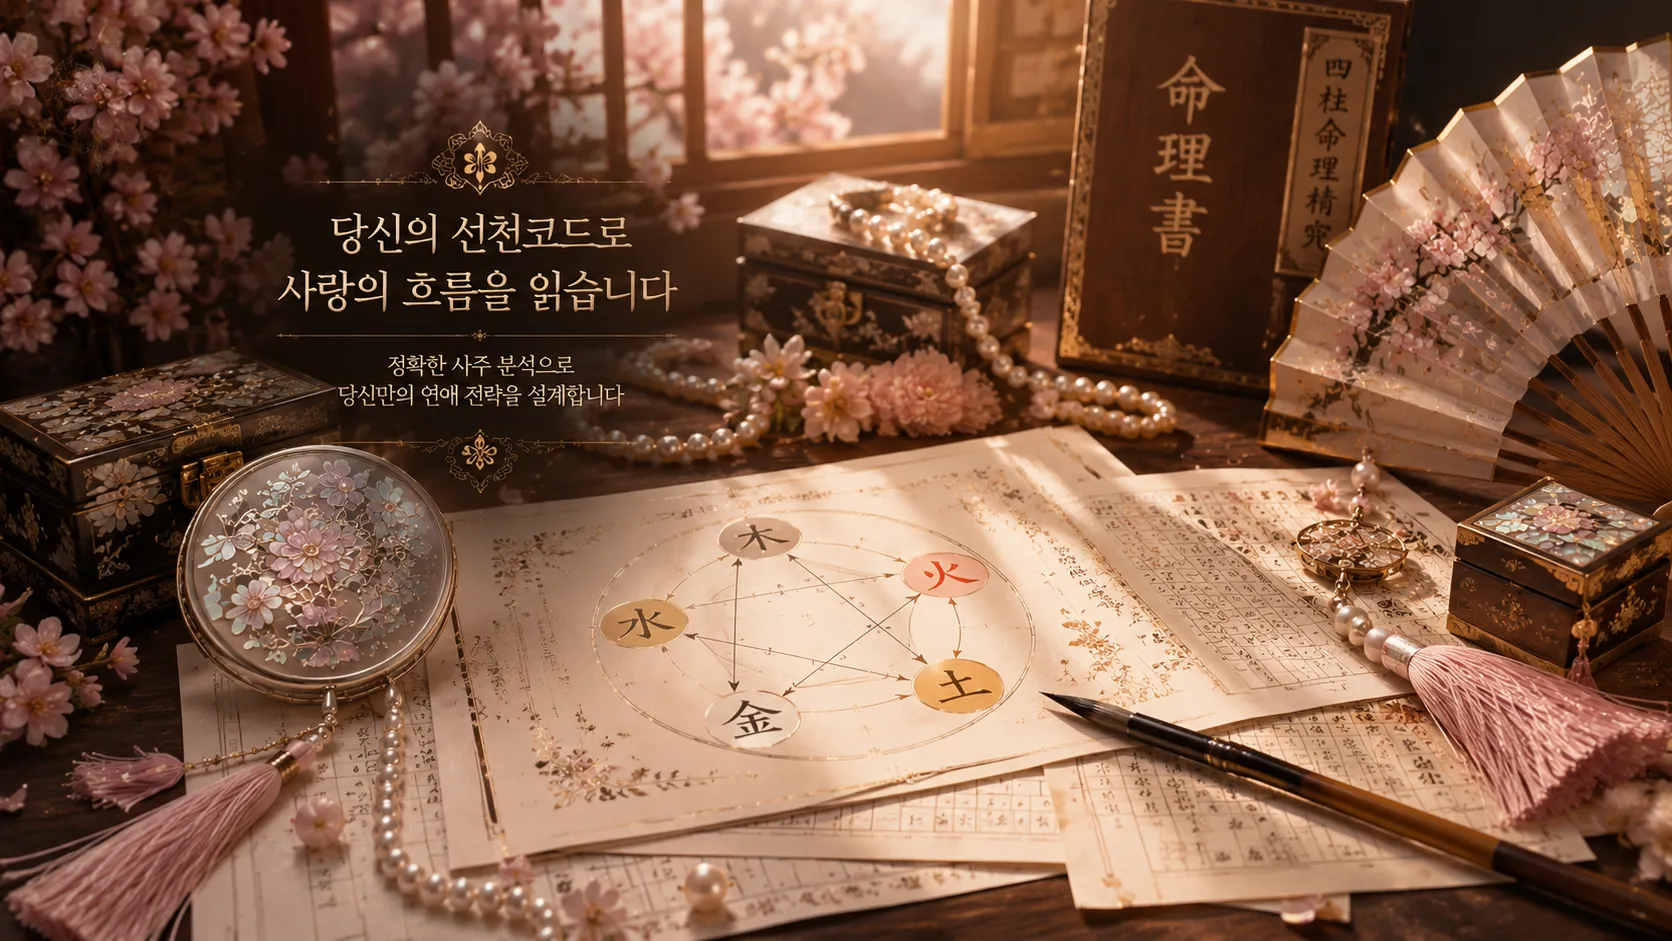
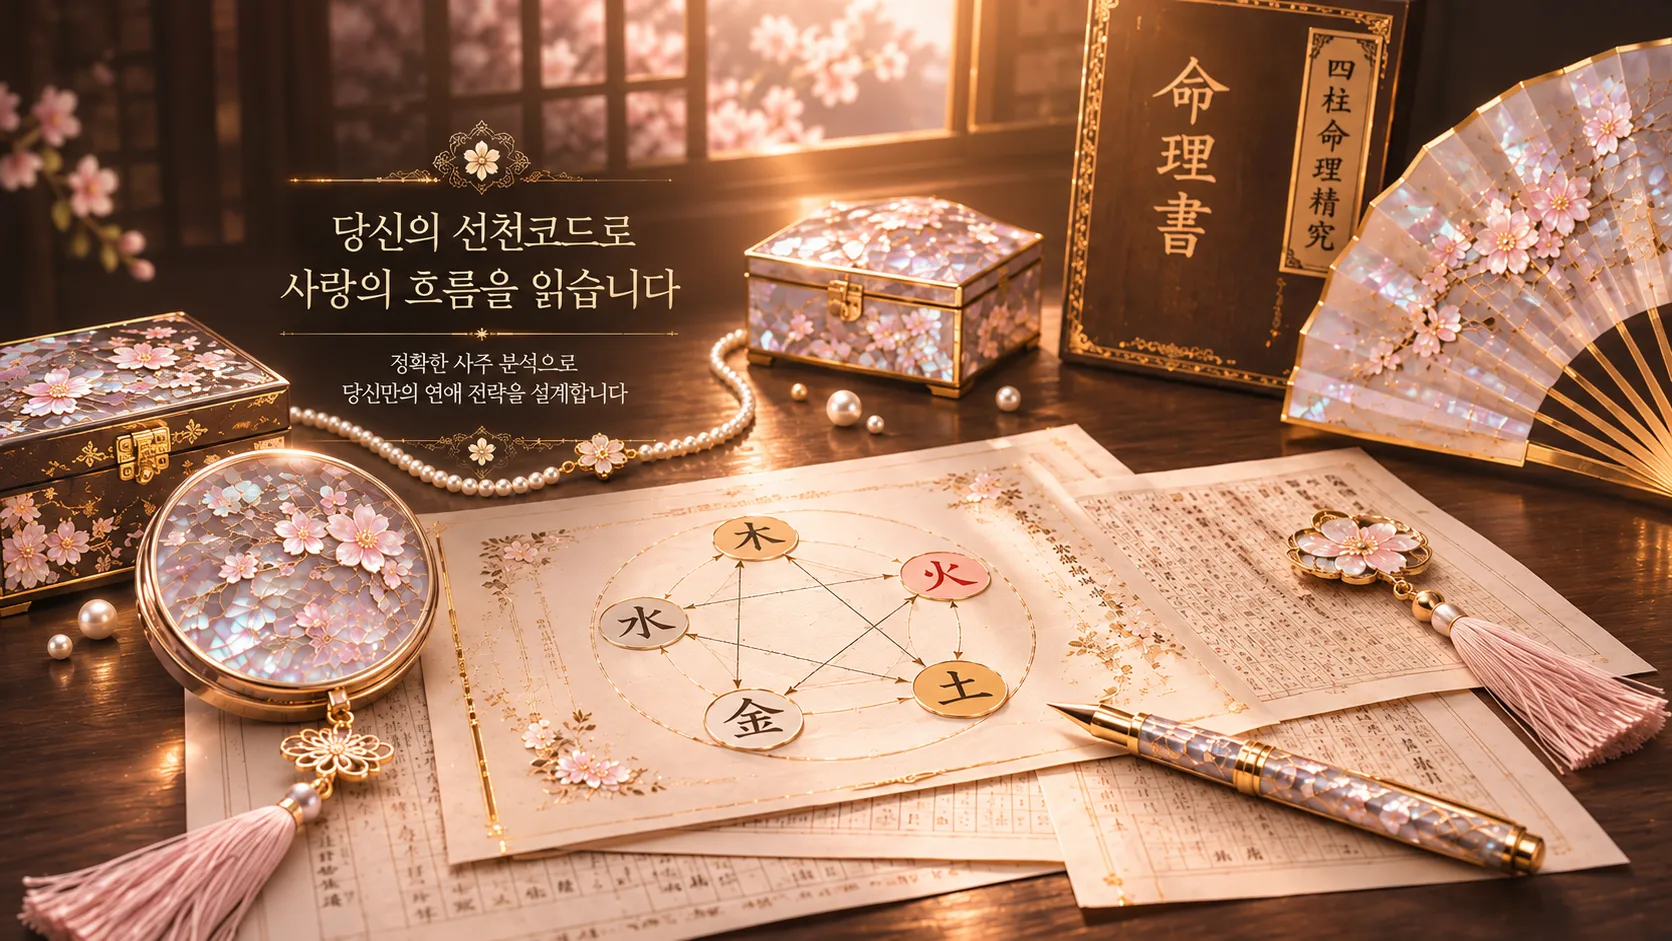
feat: 연애리포트 주도권 회복 배너 추가 및 섹션별 대표 비주얼 이미지 전면 교체

diff --git a/app/reports/baekdohwa-report/page.tsx b/app/reports/baekdohwa-report/page.tsx
@@ -308,8 +308,8 @@ export default function BaekdohwaReportPage() {
                       <div className="lg:col-span-5 w-full flex justify-center">
                         <div className="relative w-full max-w-[420px] aspect-[4/3] rounded-2xl md:rounded-3xl overflow-hidden border border-white/10 shadow-2xl bg-black/30 group">
                           <Image
-                            src="/image/lovereport/p5.webp"
-                            alt="선천코드 연애 리포트 프리미엄 패키지"
+                            src="/image/lovereport/the%20secret%20love%20map.webp"
+                            alt="선천코드로 읽는 나의 사랑 설계도"
                             fill
                             className="object-cover object-center group-hover:scale-105 transition-transform duration-700"
                             sizes="(max-width: 1024px) 100vw, 420px"
@@ -632,23 +632,36 @@ export default function BaekdohwaReportPage() {
                         내 코드가 정렬되는 순간, 남자가 먼저 알아서 스며들고 헌신하는 <span className="text-[#E6BFA9] font-semibold">&lsquo;선택받는 판&rsquo;</span>이 만들어지기 때문입니다.
                       </p>
                     </div>
+                  </div>
+                </div>
 
-                    {/* 전환 강조 박스 */}
-                    <div 
-                      className="p-6 md:p-8 rounded-2xl border text-center space-y-2 backdrop-blur-sm"
-                      style={{
-                        background: 'rgba(125, 76, 100, 0.20)',
-                        borderColor: 'rgba(215, 170, 185, 0.20)',
-                      }}
-                    >
-                      <p className="text-sm md:text-base text-[#E6BFA9] font-bold tracking-wide">
-                        이제 감정에 휘둘리며 닳아버리는 연애는 끝내세요.
-                      </p>
-                      <p className="font-elegant font-medium text-[17px] md:text-[19px] text-white leading-relaxed break-keep">
-                        당신의 연애 판도를 완전히 뒤바꿀 단 하나의 설계도,<br className="hidden sm:inline" />
-                        <span className="text-[#E6BFA9] font-semibold">백도화 《연애비급》 선천코드 리포트가 당신의 진짜 매력을 깨워드립니다.</span>
-                      </p>
-                    </div>
+                {/* 주도권 회복 16:9 풀사이즈 배너 이미지 (최대 1280px) */}
+                <div className="mx-auto mt-10 mb-12 w-full max-w-[1280px]">
+                  <Image
+                    src="/image/lovereport/the%20power%20of%20my%20love%20code.webp"
+                    alt="선천코드의 매력을 이해하고 연애의 주도권을 되찾는 백도화 이미지"
+                    width={1280}
+                    height={720}
+                    className="block h-auto w-full rounded-2xl border border-white/10 shadow-2xl"
+                  />
+                </div>
+
+                {/* 전환 강조 박스 */}
+                <div className="max-w-3xl mx-auto mb-16 text-center">
+                  <div 
+                    className="love-report-highlight-card p-6 md:p-8 rounded-2xl border text-center space-y-2 backdrop-blur-sm"
+                    style={{
+                      background: 'rgba(125, 76, 100, 0.20)',
+                      borderColor: 'rgba(215, 170, 185, 0.20)',
+                    }}
+                  >
+                    <p className="text-sm md:text-base text-[#E6BFA9] font-bold tracking-wide">
+                      이제 감정에 휘둘리며 닳아버리는 연애는 끝내세요.
+                    </p>
+                    <p className="font-elegant font-medium text-[17px] md:text-[19px] text-white leading-relaxed break-keep">
+                      당신의 연애 판도를 완전히 뒤바꿀 단 하나의 설계도,<br className="hidden sm:inline" />
+                      <span className="text-[#E6BFA9] font-semibold">백도화 《연애비급》 선천코드 리포트가 당신의 진짜 매력을 깨워드립니다.</span>
+                    </p>
                   </div>
                 </div>
 
@@ -671,9 +684,9 @@ export default function BaekdohwaReportPage() {
                   <Image 
                     src="/image/lovereport/p4.webp" 
                     alt="매력 분석 상세" 
-                    width={1200}
-                    height={800}
-                    className="w-full h-auto rounded-[50px] shadow-2xl border border-white/10" 
+                    width={1672}
+                    height={941}
+                    className="w-full h-auto rounded-2xl md:rounded-[32px] shadow-2xl border border-white/10" 
                   />
                 </div>
                 <div className="gungjung-glass p-12 md:p-24 relative overflow-hidden">
@@ -821,11 +834,11 @@ export default function BaekdohwaReportPage() {
                   <div className="order-1 lg:order-2 relative group">
                     <div className="absolute -inset-10 bg-[#B7788D]/10 blur-[60px] rounded-full"></div>
                     <Image 
-                      src="/image/lovereport/p5.webp" 
-                      alt="Premium Design" 
-                      width={800}
-                      height={600}
-                      className="relative z-10 w-full h-auto rounded-[60px] shadow-[0_0_80px_rgba(0,0,0,0.6)] border border-white/10 transition-transform duration-1000 group-hover:scale-[1.03]" 
+                      src="/image/lovereport/the%20hidden%20love%20report.webp" 
+                      alt="소장하고 싶은 프리미엄 리포트" 
+                      width={1086}
+                      height={1448}
+                      className="relative z-10 w-full h-auto rounded-[32px] md:rounded-[44px] shadow-[0_0_80px_rgba(0,0,0,0.6)] border border-white/10 transition-transform duration-1000 group-hover:scale-[1.03]" 
                     />
                   </div>
                 </div>

diff --git a/components/reports/baekdohwa-report/RecommendedAudience.tsx b/components/reports/baekdohwa-report/RecommendedAudience.tsx
@@ -21,16 +21,16 @@ export default function RecommendedAudience() {
           </p>
         </div>
 
-        {/* 상단: 기존 p3.webp 이미지와 추천 대상의 조화로운 배치 */}
+        {/* 상단: 대표 이미지와 추천 대상의 조화로운 배치 */}
         <div className="grid lg:grid-cols-12 gap-10 items-center max-w-7xl mx-auto mb-16">
           <div className="lg:col-span-5 relative group">
             <div className="absolute -inset-4 bg-[#B7788D]/15 blur-[40px] rounded-full opacity-0 group-hover:opacity-100 transition-opacity"></div>
             <Image
-              src="/image/lovereport/p3.webp"
-              alt="Recommended Audience"
-              width={600}
-              height={900}
-              className="relative z-10 w-full h-auto rounded-[40px] shadow-2xl border border-white/10 transition-transform duration-700 group-hover:scale-[1.02]"
+              src="/image/lovereport/the%20hidden%20love%20report.webp"
+              alt="당신을 위한 리포트인가요?"
+              width={1086}
+              height={1448}
+              className="relative z-10 w-full h-auto rounded-[32px] md:rounded-[40px] shadow-2xl border border-white/10 transition-transform duration-700 group-hover:scale-[1.02]"
             />
           </div>
 
